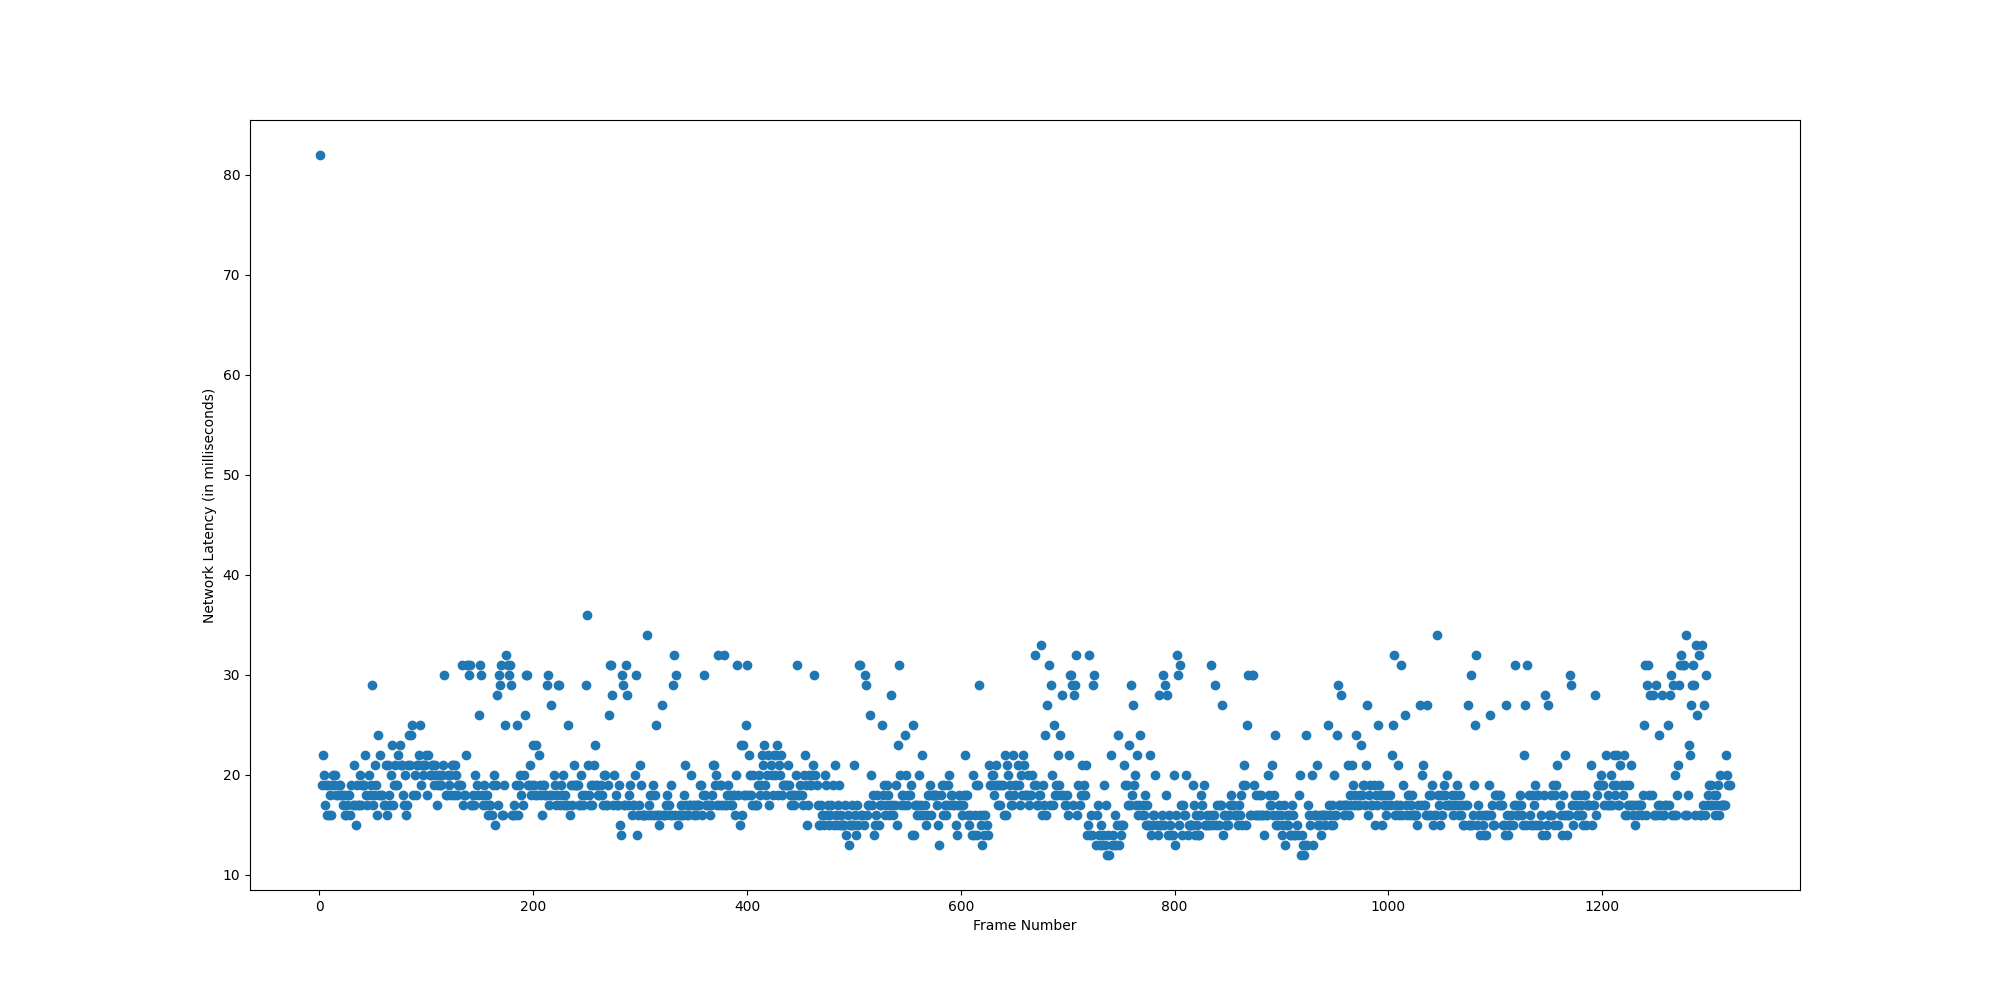
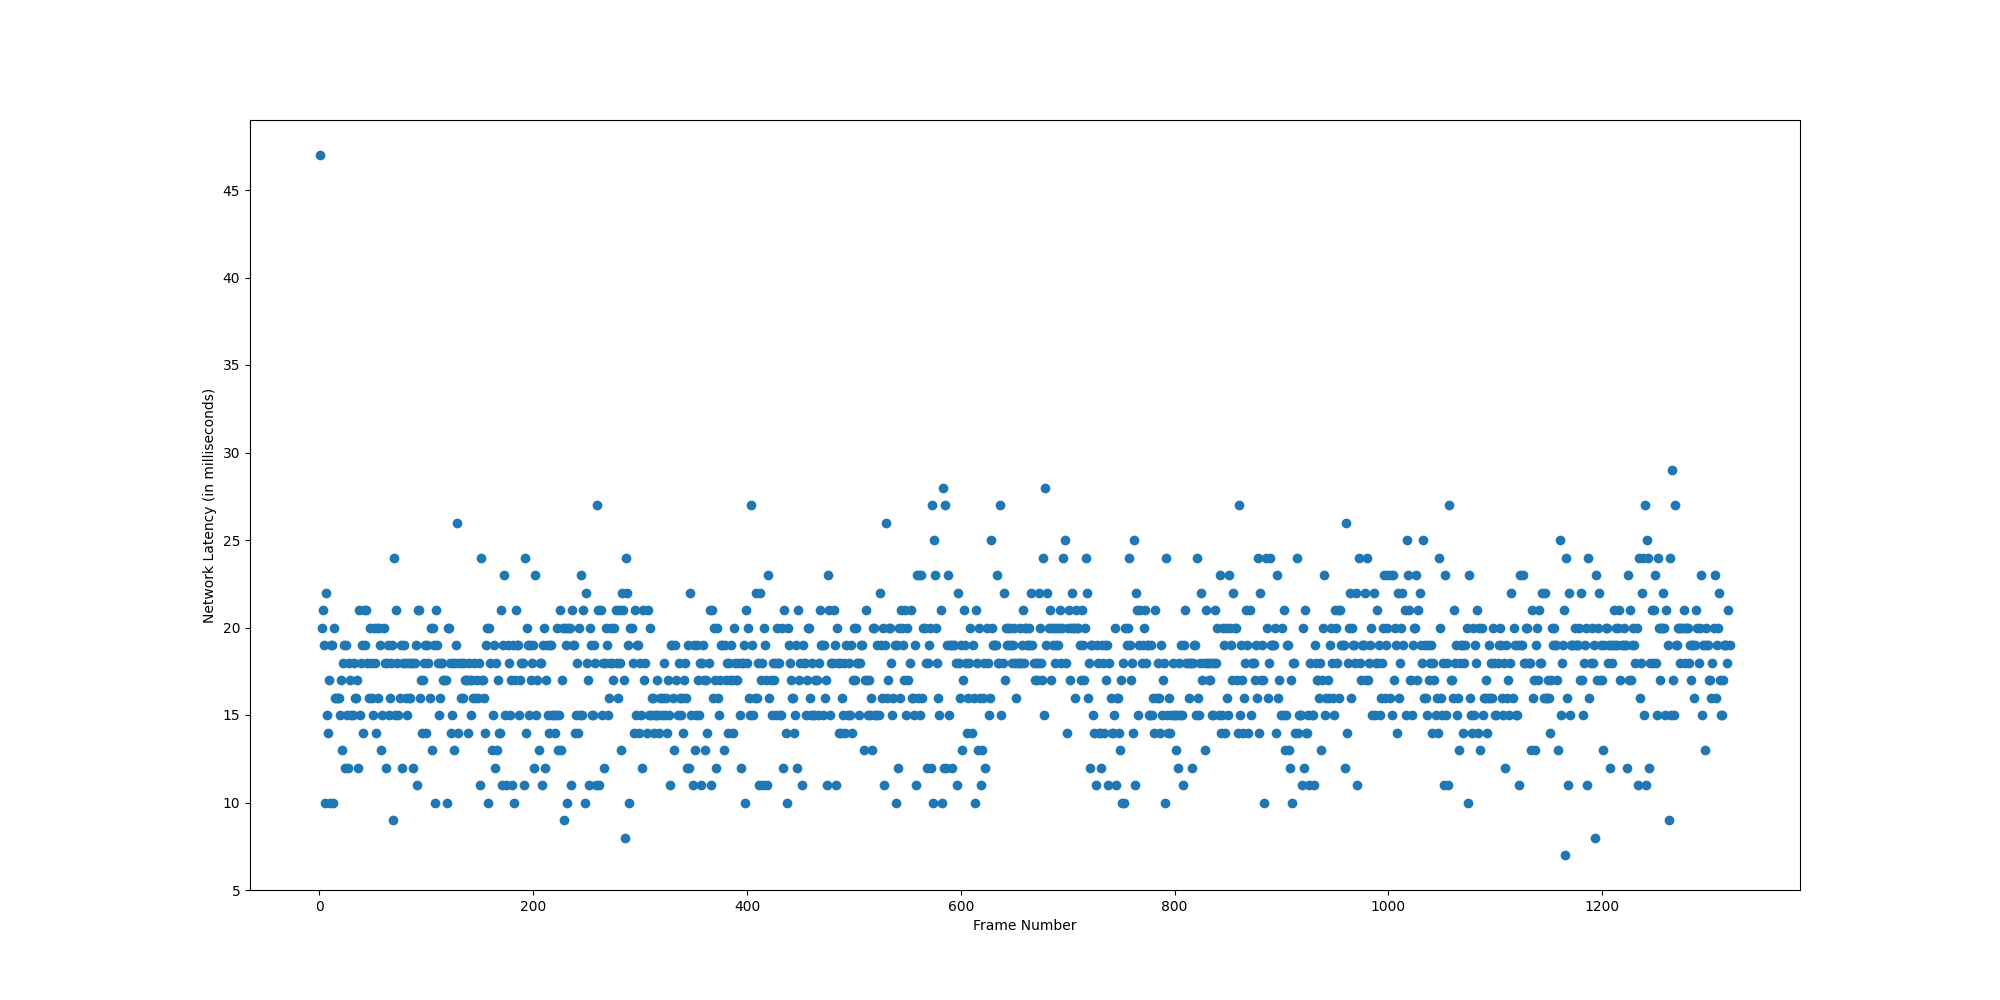
RTT calc. issue resolved

Changed region(s): [[0.155, 0.527, 0.868, 0.868]]

diff --git a/multipath_udpServer.py b/multipath_udpServer.py
@@ -12,7 +12,7 @@ NUM_PACKETS = 10
 PATH = "1"
 
 count = 0
-
+TERMINATE = False
 path1_rtt = []
 path2_rtt = []
 
@@ -30,50 +30,49 @@ def send_and_measure_rtt(sock, rtt_list, addr):
         print(f"Received echo on port {UDP_PORT_CLIENT}: {data.decode()} | RTT: {rtt:.2f} ms")
 
 def decidePath(Path1, Path2):
-    global count
-    while(1):
-        if(count % 10 == 0):
+    global count, TERMINATE
+    while not TERMINATE:
+        time.sleep(time_interval)
+        for _ in range(NUM_PACKETS):
+            start_time = time.time()
+            mssg = "Ping Path1"
+            tcpPath1Sock.sendall(mssg.encode())
+            data = tcpPath1Sock.recv(BUFF_SIZE)
+            end_time = time.time()
+            rtt = (end_time - start_time)
+            path1_rtt.append(rtt)
+            # print(f"Received echo on port {Path1[1]}: {data.decode()} | RTT: {rtt:.2f} ms")
 
-            for _ in range(NUM_PACKETS):
-                start_time = time.time()
-                mssg = "Ping Path1"
-                tcpPath1.sendall(mssg.encode())
-                data, _ = tcpPath1.recv(BUFF_SIZE)
-                end_time = time.time()
-                rtt = (end_time - start_time) * 1000
-                path1_rtt.append(rtt)
-                print(f"Receieved echo on port {Path1[1]}: {data.decode()} | RTT: {rtt: 2f} ms")
+            start_time = time.time()
+            mssg = "Ping Path2"
+            tcpPath2Sock.sendall(mssg.encode())
+            data = tcpPath2Sock.recv(BUFF_SIZE)
+            end_time = time.time()
+            rtt = (end_time - start_time)
+            path2_rtt.append(rtt)
+            # print(f"Received echo on port {Path2[1]}: {data.decode()} | RTT: {rtt:.2f} ms")
 
+        medianPath1 = np.median(path1_rtt)
+        medianPath2 = np.median(path2_rtt)
 
-                start_time = time.time()
-                mssg = "Ping Path2"
-                tcpPath2.sendall(mssg.encode())
-                data, _ = tcpPath2.recv(BUFF_SIZE)
-                end_time = time.time()
-                rtt = (end_time - start_time) * 1000
-                path2_rtt.append(rtt)
-                print(f"Receieved echo on port {Path2[1]}: {data.decode()} | RTT: {rtt: 2f} ms")
-
-
-            medianPath1 = np.median(path1_rtt)
-            medianPath2 = np.median(path2_rtt)
-
-            if(medianPath1 > medianPath2):
-                print("Median after {count} frames - Path1 - {medianPath1}ms, Path2 - {medianPath2}ms")
-                PATH = "2"
-            else:
-                print("Median after {count} frames - Path1 - {medianPath1}ms, Path2 - {medianPath2}ms")
-                PATH = "1"
-
-            path1_rtt.clear()
-            path2_rtt.clear()
+        if medianPath1 > medianPath2:
+            print(path1_rtt)
+            print(f"Median after {count} frames - Path1 - {medianPath1} ms, Path2 - {medianPath2} ms")
+            PATH = "2"
         else:
-            continue
+            print(path2_rtt)
+            print(f"Median after {count} frames - Path1 - {medianPath1} ms, Path2 - {medianPath2} ms")
+            PATH = "1"
+
+        path1_rtt.clear()
+        path2_rtt.clear()
+
+        
 
 # Method responsible ffor handling the client_connection.
 def handle_client(addr, addr1, tcp_Addr):
     # print('Client connected from:', addr)
-    global count
+    global count, TERMINATE
     fps, st, frames_cnt = (0, 0, 20)
     display = 0
     change = 1
@@ -151,6 +150,8 @@ def handle_client(addr, addr1, tcp_Addr):
         if key == ord('q'):
             server_socket.close()
             server_socket2.close()
+            tcp_Socket.close()
+            TERMINATE = True
             break
 
         if count == frames_cnt:
@@ -176,6 +177,8 @@ def handle_client(addr, addr1, tcp_Addr):
     server_socket2.close()
 
     tcp_Server_Socket.close()
+
+    TERMINATE = True
 
     print('Successfully terminated connection with the client:', addr)
 
@@ -258,16 +261,17 @@ tcpPath2.bind((host_ip2, 11111))
 tcpPath1.listen(5)
 tcpPath2.listen(5)
 
-dataPath1, addrPath1 = tcpPath1.accept()
+tcpPath1Sock, addrPath1 = tcpPath1.accept()
 print("Connection Established for RTT calc. PATH1 - ", addrPath1)
 
-dataPath2, addrPath2 = tcpPath2.accept()
+tcpPath2Sock, addrPath2 = tcpPath2.accept()
 print("Connection Established for RTT calc. PATH2 - ", addrPath2)
 
 #Sample mssges
 # tcpPath1.sendall("Testing Path1".encode())
 # tcpPath2.sendall("Testing Path2".encode())
 
+time_interval = 4
 rttThread = threading.Thread(target = decidePath, args=(addrPath1, addrPath2))
 rttThread.start()
 

diff --git a/multipath_udpClient.py b/multipath_udpClient.py
@@ -103,11 +103,11 @@ frame_queue = queue.Queue()
 def rttCommunication():
     while(1):
         packet = tcpPath1.recv(BUFFER_SIZE)
-        print("path1 - ", packet.decode())
+        # print("path1 - ", packet.decode())
         mssg = "Ping response path1"
         tcpPath1.send(mssg.encode())
         packet = tcpPath2.recv(BUFFER_SIZE)
-        print("path2 - ", packet.decode())
+        # print("path2 - ", packet.decode())
         mssg = "Ping response path2"
         tcpPath2.send(mssg.encode())
 
